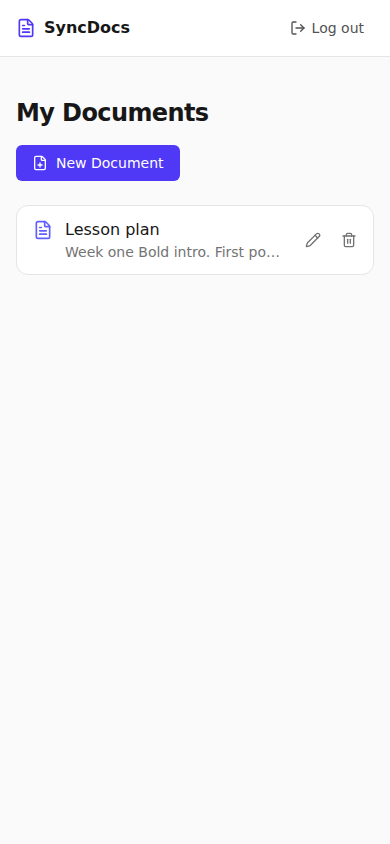
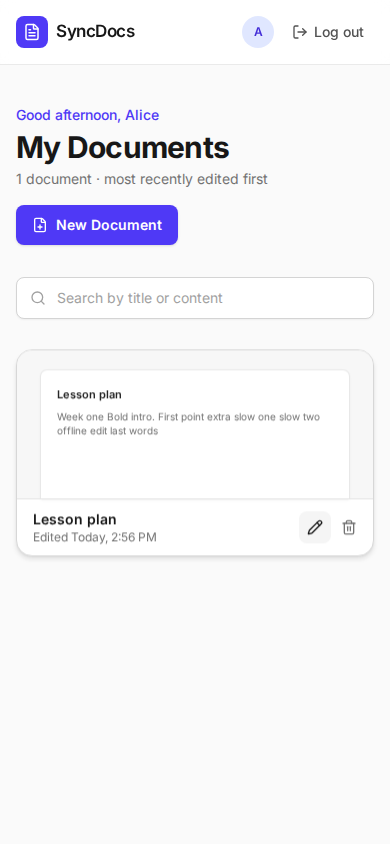
Update README and screenshots for the redesigned UI

diff --git a/README.md b/README.md
@@ -33,6 +33,10 @@ SyncDocs is a private document workspace whose core promise is that **what you w
 4. **Manage documents:** browse documents newest first with previews; rename and delete them.
 5. **Detect conflicts:** a save based on an outdated version is rejected with a clear message.
 
+| Landing page | Log in |
+|---|---|
+| ![Landing page](docs/screenshots/landing.png) | ![Log in](docs/screenshots/login.png) |
+
 | Dashboard | Mobile |
 |---|---|
 | ![Dashboard](docs/screenshots/dashboard-desktop.png) | ![Mobile editor](docs/screenshots/editor-mobile.png) |
@@ -40,7 +44,9 @@ SyncDocs is a private document workspace whose core promise is that **what you w
 ## Features
 
 - Email/password accounts with server-side sessions (signup, login, logout)
-- Dashboard of your documents, newest first, with a text preview
+- Landing page explaining the product
+- Dashboard of your documents as cards, newest first, with page previews and search by title or content
+- Live word count in the editor
 - Create, open, rename, and delete documents (delete asks for confirmation)
 - Rich-text editor: headings (H1–H3), bold, italic, bullet and numbered lists, quotes, undo/redo, keyboard shortcuts
 - Autosave 800 ms after typing stops, with a visible status: Saved / Unsaved changes / Saving… / Couldn't save / Changed elsewhere
@@ -88,8 +94,8 @@ In production one Express server serves both the built React app and the `/api` 
 | `api/` | `apiFetch` wrapper and one function per endpoint |
 | `auth/`, `hooks/useAuth.ts` | Current user, shared through React context |
 | `hooks/useAutosave.ts` | Debounced, serialized autosave |
-| `pages/` | Login, Signup, Dashboard, DocumentEditor |
-| `components/` | Navbar, DocumentRow, EditorWorkspace, EditorToolbar, SaveStatus, ProtectedRoute |
+| `pages/` | Landing, Login, Signup, Dashboard, DocumentEditor |
+| `components/` | Navbar, DocumentCard, EditorWorkspace, EditorToolbar, SaveStatus, WordCount, ProtectedRoute |
 
 ### Data model
 
